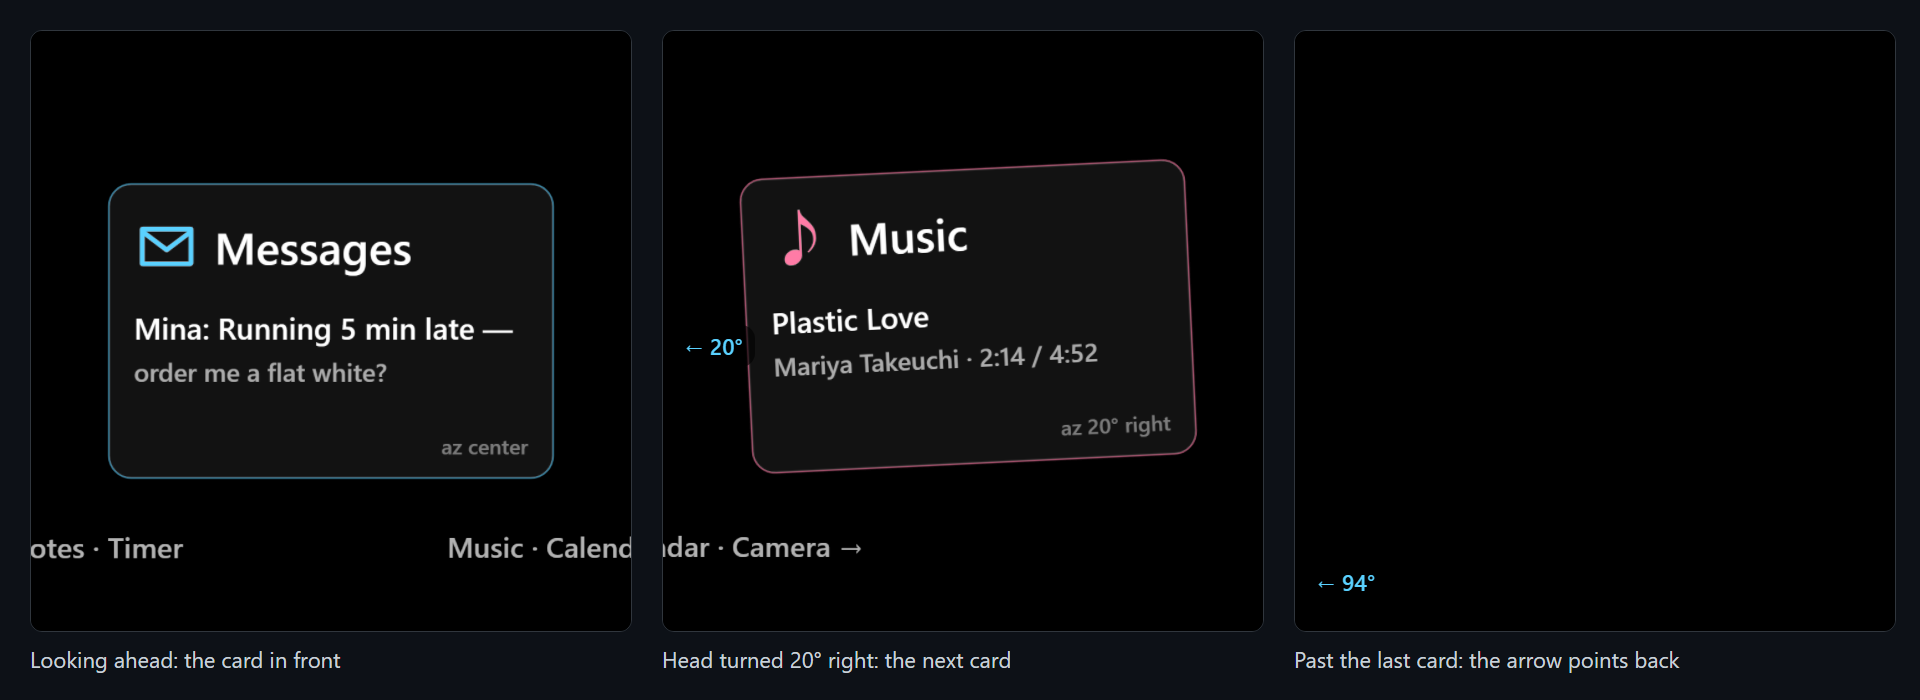
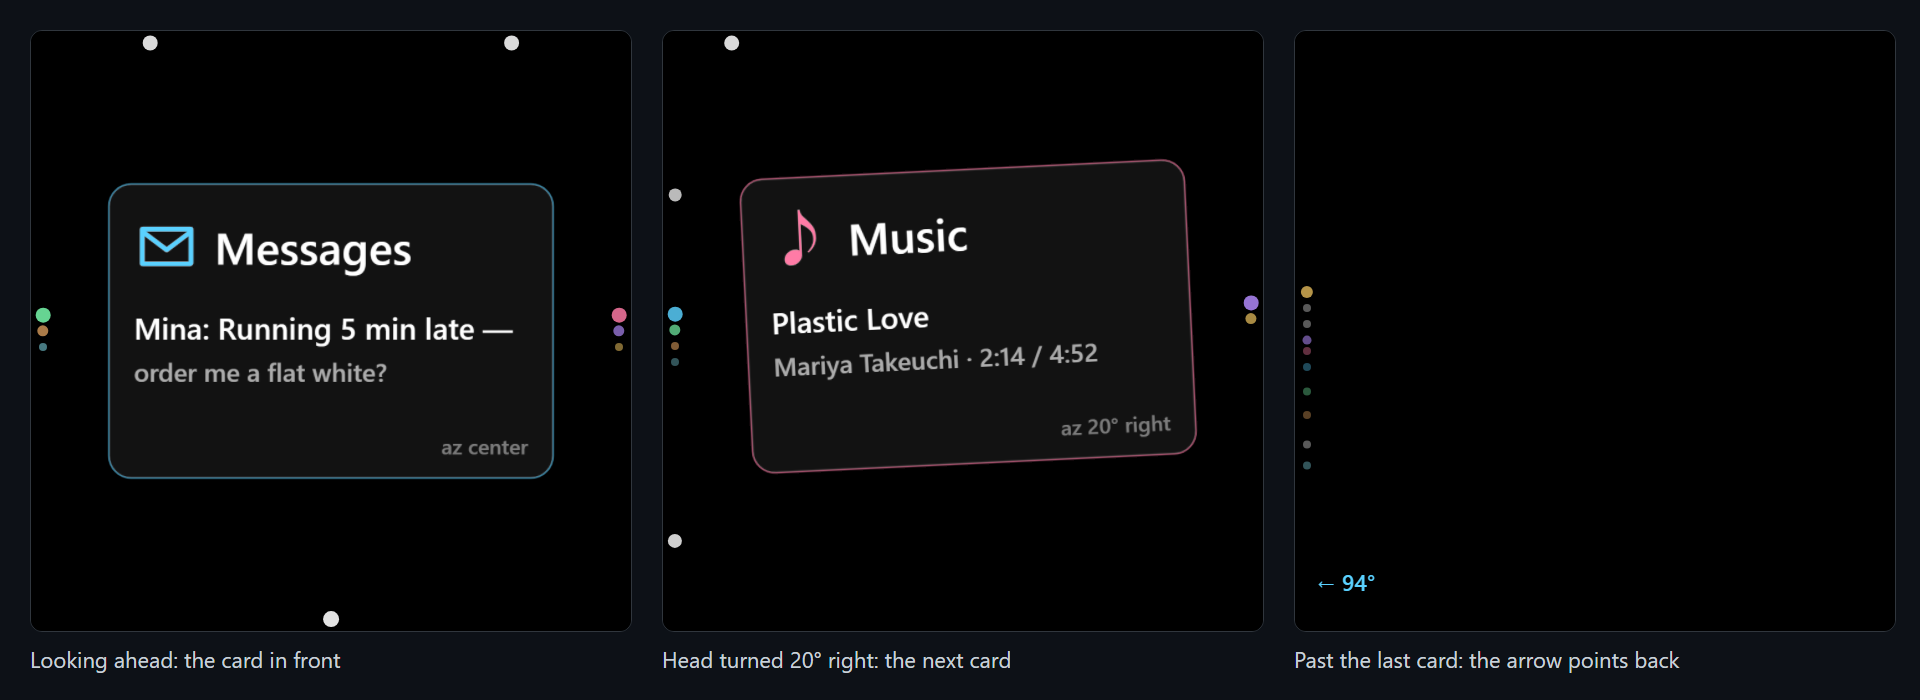
Glasses: focus cues - draw a card only when half of it is in view, show a dot on the edge otherwise
Cards less than half inside the 20 deg window fade out (hysteresis 50/40 %)
and are replaced by coloured dots on the window edge, nearer = larger and
brighter. The text hints are dropped on the glasses; the old edge arrow only
appears when no card is in view.

diff --git a/src/focus.js b/src/focus.js
@@ -1,0 +1,142 @@
+import * as THREE from 'three';
+
+/**
+ * Focus rule for the 20° window: a card is drawn only while at least half of it is inside
+ * the display. A card that is mostly outside is not what the wearer is attending to, so it
+ * is replaced by a location cue: a small dot on the window edge, in the card's colour,
+ * pointing to where the card is. Nearer cards give brighter, larger dots.
+ *
+ * "Half" is measured against the smaller of the card and the window, so a card wider than
+ * the window still counts as in focus when it fills most of the window.
+ */
+
+const SHOW_AT = 0.5;   // fraction inside to appear
+const HIDE_AT = 0.4;   // fraction inside to disappear (hysteresis: no flicker at the edge)
+const FADE_S = 0.12;   // fade time for appear / disappear
+const EDGE_INSET = 12; // px from the window edge to the dot centre
+const MERGE_PX = 18;   // cues closer than this along the edge share one spot
+
+const _v = new THREE.Vector3();
+const _c = new THREE.Vector3();
+
+export class FocusCues {
+  /**
+   * @param {import('./content.js').ContentLayer} content
+   * @param {THREE.Camera} camera  the display camera
+   * @param {HTMLElement} layer    absolutely positioned container over the canvas
+   * @param {number} size          canvas size in px
+   */
+  constructor(content, camera, layer, size = 600) {
+    this.content = content;
+    this.camera = camera;
+    this.layer = layer;
+    this.size = size;
+    this.enabled = true;
+    this.state = new Map(); // item -> { shown, opacity, frac }
+    this.dots = [];
+    this.shownCount = 0;
+  }
+
+  setEnabled(on) {
+    this.enabled = on;
+    if (!on) {
+      for (const it of this.content.items) { it.mesh.material.opacity = 1; it.mesh.visible = true; }
+      this.state.clear();
+      this._place([]);
+    }
+  }
+
+  /** Fraction of the item's on-screen box that lies inside the window (0..1). */
+  _fraction(item) {
+    const cam = this.camera;
+    let x0 = Infinity, x1 = -Infinity, y0 = Infinity, y1 = -Infinity;
+    for (const [sx, sy] of [[-1, -1], [1, -1], [1, 1], [-1, 1]]) {
+      _v.set(sx * item.width / 2, sy * item.height / 2, 0).applyMatrix4(item.mesh.matrixWorld);
+      _c.copy(_v).applyMatrix4(cam.matrixWorldInverse);
+      if (_c.z > -1e-3) return 0; // a corner behind the eye: far outside
+      _v.project(cam);
+      x0 = Math.min(x0, _v.x); x1 = Math.max(x1, _v.x);
+      y0 = Math.min(y0, _v.y); y1 = Math.max(y1, _v.y);
+    }
+    const area = (x1 - x0) * (y1 - y0);
+    if (!(area > 0)) return 0;
+    const ix = Math.max(0, Math.min(x1, 1) - Math.max(x0, -1));
+    const iy = Math.max(0, Math.min(y1, 1) - Math.max(y0, -1));
+    return (ix * iy) / Math.min(area, 4); // the window is 2 x 2 in NDC
+  }
+
+  /** Updates visibility, fades and cues. Returns true when the canvas must be redrawn. */
+  update(dt) {
+    if (!this.enabled) return false;
+    const cam = this.camera;
+    cam.updateMatrixWorld();
+    this.content.scene.updateMatrixWorld();
+    let redraw = false, shown = 0;
+    const cues = [];
+    const half = this.size / 2;
+    for (const item of this.content.items) {
+      let st = this.state.get(item);
+      if (!st) { st = { shown: false, opacity: item.mesh.material.opacity ?? 1, frac: 0 }; this.state.set(item, st); }
+      st.frac = this._fraction(item);
+      if (!st.shown && st.frac >= SHOW_AT) st.shown = true;
+      else if (st.shown && st.frac < HIDE_AT) st.shown = false;
+      const target = st.shown ? 1 : 0;
+      if (st.opacity !== target) {
+        const step = dt > 0 ? dt / FADE_S : 1;
+        st.opacity = target > st.opacity ? Math.min(target, st.opacity + step) : Math.max(target, st.opacity - step);
+        item.mesh.material.opacity = st.opacity;
+        item.mesh.visible = st.opacity > 0.001;
+        redraw = true;
+      }
+      if (st.shown) { shown++; continue; }
+      // Cue: direction of the card centre as seen from the display centre.
+      _c.setFromMatrixPosition(item.mesh.matrixWorld).applyMatrix4(cam.matrixWorldInverse);
+      const ang = Math.acos(Math.max(-1, Math.min(1, -_c.z / _c.length()))) / Math.PI * 180; // degrees off-axis
+      let dx = _c.x, dy = -_c.y;
+      const len = Math.hypot(dx, dy) || 1;
+      dx /= len; dy /= len;
+      const t = (half - EDGE_INSET) / Math.max(Math.abs(dx), Math.abs(dy));
+      cues.push({ x: half + dx * t, y: half + dy * t, ang, color: item.color });
+    }
+    this.shownCount = shown;
+    this._place(cues);
+    return redraw;
+  }
+
+  _place(cues) {
+    // Nearest first; cues landing on the same spot are laid out side by side along the edge.
+    cues.sort((a, b) => a.ang - b.ang);
+    const spots = [];
+    for (const c of cues) {
+      const spot = spots.find((s) => Math.hypot(s.x - c.x, s.y - c.y) < MERGE_PX);
+      if (spot) spot.list.push(c); else spots.push({ x: c.x, y: c.y, list: [c] });
+    }
+    let n = 0;
+    for (const s of spots) {
+      const onSide = s.x < EDGE_INSET + 1 || s.x > this.size - EDGE_INSET - 1; // left/right edge: stack vertically
+      s.list.forEach((c, i) => {
+        const dot = this._dot(n++);
+        const r = Math.max(4, 9 - c.ang / 12);          // nearer = larger
+        const alpha = Math.max(0.35, 1 - c.ang / 120);  // nearer = brighter
+        const off = (i - (s.list.length - 1) / 2) * 16;
+        const x = onSide ? s.x : s.x + off, y = onSide ? s.y + off : s.y;
+        dot.style.transform = `translate(${(x - r).toFixed(1)}px, ${(y - r).toFixed(1)}px)`;
+        dot.style.width = dot.style.height = `${(r * 2).toFixed(1)}px`;
+        dot.style.background = c.color;
+        dot.style.opacity = alpha.toFixed(2);
+        dot.style.display = 'block';
+      });
+    }
+    for (let i = n; i < this.dots.length; i++) this.dots[i].style.display = 'none';
+  }
+
+  _dot(i) {
+    while (this.dots.length <= i) {
+      const d = document.createElement('div');
+      d.className = 'cue';
+      this.layer.appendChild(d);
+      this.dots.push(d);
+    }
+    return this.dots[i];
+  }
+}

diff --git a/src/glasses.js b/src/glasses.js
@@ -3,6 +3,7 @@ import { ContentLayer } from './content.js';
 import { DisplayModel } from './display.js';
 import { HeadTracker } from './glasses-head.js';
 import { RemoteLog } from './glasses-log.js';
+import { FocusCues } from './focus.js';
 import { yprFromQuat, fmtDeg, angleBetween } from './math.js';
 
 /**
@@ -53,9 +54,10 @@ renderer.setSize(SIZE, SIZE, false);
 renderer.outputColorSpace = THREE.SRGBColorSpace;
 renderer.setClearColor(0x000000, 1);
 
-const content = new ContentLayer();
+const content = new ContentLayer({ hints: false }); // the focus cues replace the text hints
 content.setPreset(params.content);
 const display = new DisplayModel(params);
+const focus = new FocusCues(content, display.camera, $('cues'), SIZE);
 const head = new HeadTracker(canvas, { gyroAxes: new URLSearchParams(location.search).get('gyro') || 'device' });
 // Recenter: apply the new yaw offset to the display camera first, then anchor the content there.
 head.onReset = () => { display.update(head.update(0), 0); display.recenter(); needsRender = true; };
@@ -217,7 +219,9 @@ function updateEdge() {
   const e = yprFromQuat(_rel);
   const dx = -e.yaw, dy = e.pitch; // + = content is to the right / above
   const half = params.fov / 2;
-  if (Math.abs(dx) < half - 2 && Math.abs(dy) < half - 2) { edge.classList.remove('show'); return; }
+  // With cards on screen, the focus cues already show where everything else is.
+  const inside = Math.abs(dx) < half - 2 && Math.abs(dy) < half - 2;
+  if (inside || focus.shownCount > 0) { edge.classList.remove('show'); return; }
   const arrow = Math.abs(dx) >= Math.abs(dy) ? (dx > 0 ? '→' : '←') : (dy > 0 ? '↑' : '↓');
   edge.textContent = `${arrow} ${Math.round(Math.hypot(dx, dy))}°`;
   edge.classList.add('show');
@@ -270,6 +274,7 @@ function frame() {
   display.update(q, dt);
   content.anchor.quaternion.copy(display.anchor);
   if (content.update(dt)) needsRender = true;
+  if (focus.update(dt)) needsRender = true;
   const moved = angleBetween(_lastDrawnQ, display.camera.quaternion) > params.fov / SIZE / 2;
   let drew = false;
   if (moved || needsRender) {
@@ -294,4 +299,4 @@ renderer.setAnimationLoop(frame);
 $('b-start').focus({ preventScroll: true });
 
 // Exposed for the smoke test
-window.__glasses = { params, display, content, head, renderer, start, setContent, recenter };
+window.__glasses = { params, display, content, head, renderer, focus, start, setContent, recenter };

diff --git a/src/content.js b/src/content.js
@@ -10,7 +10,10 @@ import { FONT, makeCanvas, canvasTexture, roundRect, textSprite } from './textur
  * `anchor` is the group the DisplayModel rotates according to the anchoring mode.
  */
 export class ContentLayer {
-  constructor() {
+  /** @param {{hints?: boolean}} opts  hints: text hints pointing to off-screen cards */
+  constructor({ hints = true } = {}) {
+    this.hints = hints;
+    this.items = []; // cards: { mesh, width, height, color } for the focus rule (src/focus.js)
     this.scene = new THREE.Scene();
     this.anchor = new THREE.Group();
     this.scene.add(this.anchor);
@@ -40,6 +43,7 @@ export class ContentLayer {
 
   _dispose() {
     this._live.length = 0;
+    this.items.length = 0;
     const kill = (o) => {
       if (o.geometry) o.geometry.dispose();
       if (o.material) {
@@ -52,7 +56,7 @@ export class ContentLayer {
   }
 
   /** Create a card at (az, el) with angular size, drawn by `draw(ctx, w, h, now)`. */
-  card({ az = 0, el = 0, wDeg = 10, hDeg = 6, draw, live = false, radius = 32 }) {
+  card({ az = 0, el = 0, wDeg = 10, hDeg = 6, draw, live = false, radius = 32, color = '#ffffff' }) {
     const w = Math.round(wDeg * this.pxPerDeg);
     const h = Math.round(hDeg * this.pxPerDeg);
     const canvas = makeCanvas(w, h);
@@ -64,6 +68,7 @@ export class ContentLayer {
     );
     this.place(mesh, az, el);
     this.anchor.add(mesh);
+    this.items.push({ mesh, width: angularSize(wDeg, this.radius), height: angularSize(hDeg, this.radius), color });
     const widget = {
       mesh,
       redraw: (now = new Date()) => {
@@ -172,7 +177,7 @@ function buildWorkspace(layer) {
   ];
   for (const a of apps) {
     layer.card({
-      az: a.az, el: 0, wDeg: 15, hDeg: 10,
+      az: a.az, el: 0, wDeg: 15, hDeg: 10, color: a.color,
       draw(ctx, w, h) {
         frame(ctx, w, h, 36, { stroke: a.color + '99' });
         text(ctx, a.glyph, 0.9 * PX, 2.3 * PX, { size: 2.2, color: a.color, baseline: 'middle' });
@@ -224,8 +229,10 @@ function buildWorkspace(layer) {
     layer.place(s, az, -7.2);
     layer.anchor.add(s);
   };
-  hint(-10, '← Maps · Notes · Timer');
-  hint(10, 'Music · Calendar · Camera →');
+  if (layer.hints) {
+    hint(-10, '← Maps · Notes · Timer');
+    hint(10, 'Music · Calendar · Camera →');
+  }
 }
 
 /** Angular reference grid: 5° lines, 10° labels, over ±60° azimuth / ±40° elevation. */

diff --git a/glasses.html b/glasses.html
@@ -51,6 +51,10 @@
     }
     #edge.show { display: flex; }
 
+    /* Focus cues: where the cards that are not drawn are */
+    #cues { position: absolute; inset: 0; pointer-events: none; }
+    .cue { position: absolute; left: 0; top: 0; border-radius: 50%; display: none; }
+
     #hud {
       position: absolute; left: 12px; top: 10px; font-size: 17px; line-height: 1.3; color: var(--muted);
       pointer-events: none; white-space: pre; background: rgba(0, 0, 0, 0.8); padding: 6px 10px; border-radius: 10px;
@@ -75,6 +79,7 @@
 </head>
 <body>
   <canvas id="gl" width="600" height="600"></canvas>
+  <div id="cues"></div>
   <div id="edge"></div>
   <div id="hud" class="hidden"></div>
   <div id="toast" role="status"></div>

diff --git a/README.md b/README.md
@@ -35,7 +35,7 @@ no native SDK.
 | **What you see** | The 600 × 600 display itself, drawn on black (black is transparent on the waveguide) | A first-person room with the virtual display overlaid at its real size and place |
 | **Anchoring** | World-locked | Head-locked, world-locked, lazy follow, horizon-level |
 | **Head input** | The glasses' gyroscope and accelerometer, filtered and predicted | Mouse, keys, phone gyroscope, scripted demo, Quest WebXR (right eye only) |
-| **Content** | Cards across 120°, HUD demo, angular grid | Same, plus FOV / offset / roll / brightness sliders and PNG export of the device frame |
+| **Content** | Cards across 120°, HUD demo, angular grid; a card is drawn only when half of it is in view, otherwise a dot on the edge shows where it is | Same, plus FOV / offset / roll / brightness sliders and PNG export of the device frame |
 | **Diagnostics** | On-screen readout, remote log to the dev server | Live numbers for head, display centre and content offset |
 
 ![The simulator's four anchoring modes with the head turned or rolled](docs/modes.png)
@@ -140,6 +140,14 @@ tuned for a display.
 5. **Adaptive smoothing.** A One Euro–style low-pass uses 120 ms when the head is still and 12 ms
    when it moves. The content is still at rest and does not lag in motion. Rates below 0.5 °/s
    after bias removal count as zero, so a resting head does not drift.
+
+### Focus cues
+
+A card is drawn only while at least half of it is inside the 20° window. A card that is mostly
+outside is not what the wearer is looking at, so it is replaced by a dot on the window edge, in the
+card's colour, pointing to where it is. Nearer cards give larger, brighter dots; cards in the same
+direction line up side by side. Cards fade in and out over 120 ms, with hysteresis (appear at 50 %,
+disappear below 40 %), so nothing flickers at the edge. `src/focus.js` holds the rule.
 
 ### Battery
 
